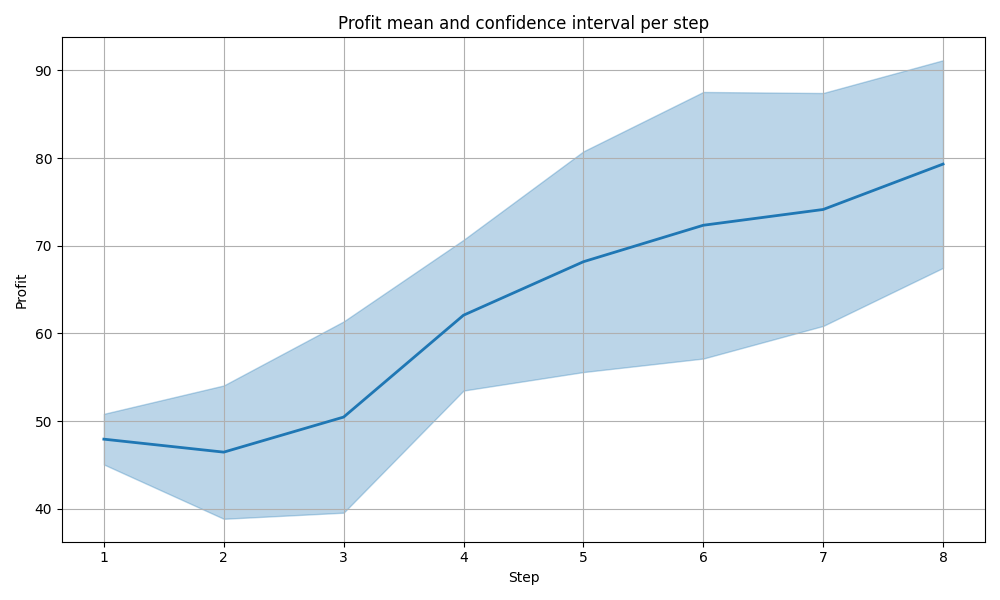
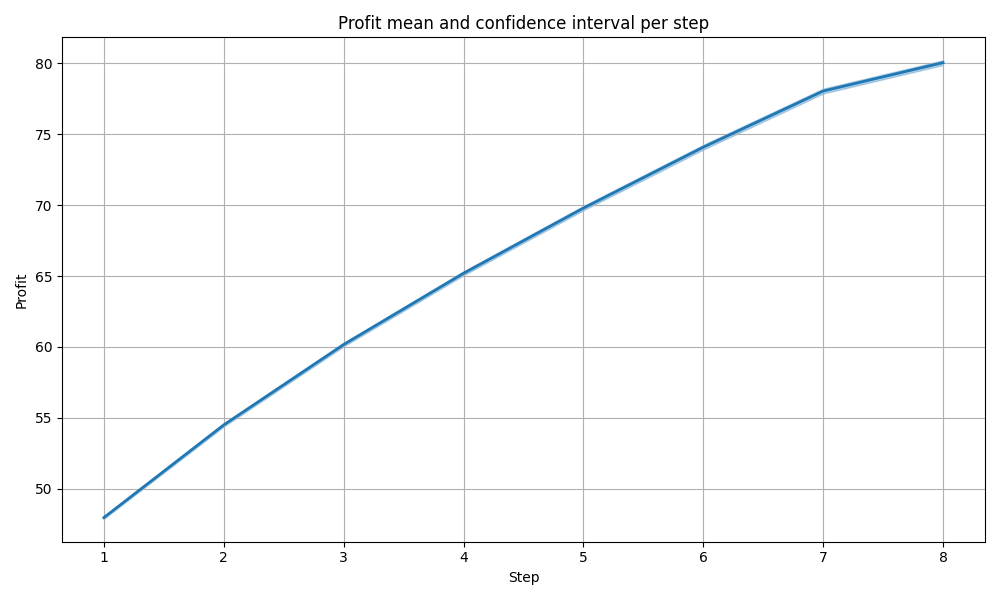
✨ added ingredient name in ingredients choice chart

diff --git a/code/plots.py b/code/plots.py
@@ -1,11 +1,13 @@
 """Script to visualize plots of optimization."""
 import matplotlib.pyplot as plt
 import numpy as np
+import pandas as pd
 import torch
 
 
 def visualize_ingredients_choice(
     ingredients: torch.Tensor,
+    ingredients_df: pd.DataFrame,
     n_ingredients: int):
     """Visualize ingredients choice in bar plots."""
     ingredients = ingredients.int()
@@ -31,9 +33,10 @@ def visualize_ingredients_choice(
 
     for i in range(n_ingredients + 1):
         if i < n_ingredients:
-            label = f'Ingredient {i + 1}'
+            ingredient_name = ingredients_df.iloc[i]['ingredient_name']
+            label = f'{ingredient_name}'
         else:
-            label = 'Remove last ingredient'
+            label = 'REMOVE'
 
         ax.bar(
             steps,

diff --git a/code/main.py b/code/main.py
@@ -30,8 +30,8 @@ results_data, results_opt = chain.optimize_recipe(
     base_product="OG Kush",
     objective_function='profit',
     num_simulations=1,
-    batch_size=1000,
-    num_steps=4,
+    batch_size=20_000,
+    num_steps=8,
     T0=10.0
 )
 print(
@@ -45,10 +45,11 @@ Lucro: {results_opt["profit"]}
 """
 )
 
-# # Plot simulation graphs
-# visualize_ingredients_choice(
-#     results_data['recipes'],
-#     n_ingredients=chain.n_ingredients
-# )
+# Plot simulation graphs
+visualize_ingredients_choice(
+    results_data['recipes'],
+    n_ingredients=chain.n_ingredients,
+    ingredients_df=chain.ingredients_df,
+)
 
-# visualize_profits(profits=results_data['profits'])
+visualize_profits(profits=results_data['profits'])
